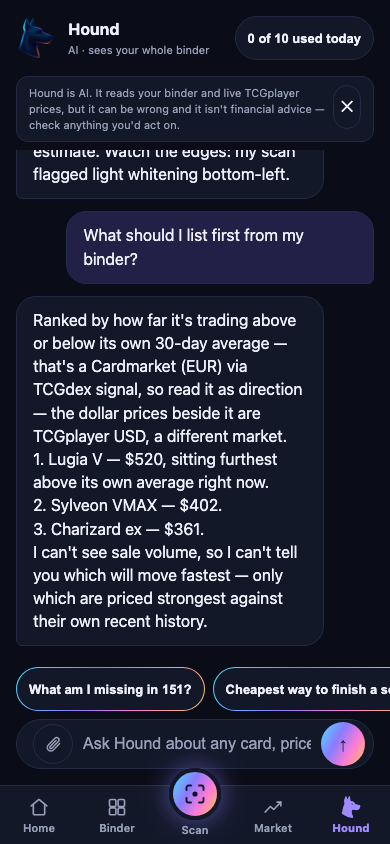
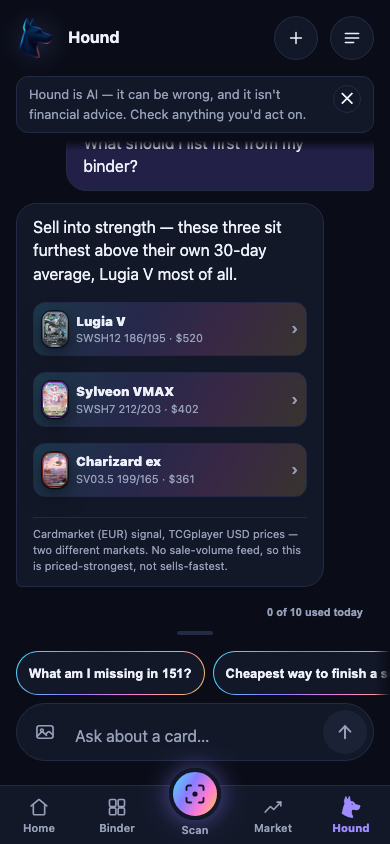
Holohound: the Hound frame showed a screen that no longer exists
Flagged by the session working the app: the chat surface was rebuilt tonight.
Checked it — the five frames on this page were captured at 12:40 and TWENTY-TWO
commits touched index.html after that, including "Conversations, not one
endless scroll" (13:31), "Conversations becomes a screen" (16:22) and a
composer rebuild (16:41). Re-shot from main at a81b7e2 with the app's own
nav_walk, into a scratchpad so the shared tree was never written to.

Only hound.png actually moved (8.7KB); report.png and set.png came back
byte-identical and home/scan differed by 1-2 bytes of encoder noise. Took all
five from the same capture anyway so the set has one provenance instead of a
mix. Bumped the screenshot cache-buster to 20260818b — the old frames are
already on the CDN. Existing alt text and captions still describe the new
screen correctly, so no copy changed.

Recorded path/source_revision/capture_command/journey per frame in
site-audit-contract.json, which is the auditor's own screenshots contract, so
the next person can diff before a launch-facing use instead of discovering it
the way this was discovered. Nothing static could catch this: every file
served 200, and site_audit, the og drift gate and the carousel gate were all
green while the picture was wrong.

Also re-verified against main while there: HOUND_API is still empty unless
?api= is passed, so privacy.html's "Hound is not enabled in this build" and
the FAQ's matching line are both still true.

diff --git a/holohound/index.html b/holohound/index.html
@@ -89,10 +89,10 @@
       <div class="device-stage">
         <div class="device">
           <div class="hero-carousel">
-            <img data-allow-duplicate="true" src="screenshots/home.png?v=20260818a" width="390" height="844" fetchpriority="high" alt="Holohound home screen — binder value with today's movers, Scan and Ask Hound quick actions">
-            <img data-allow-duplicate="true" src="screenshots/report.png?v=20260818a" width="390" height="844" loading="lazy" alt="A card report — last-sold price, the cheapest listing, the middle of the book, and a pre-grade estimate with its hedge stated first">
-            <img data-allow-duplicate="true" src="screenshots/set.png?v=20260818a" width="390" height="844" loading="lazy" alt="Master-set completion — a completion ring, the cards still needed, and what finishing the set would cost">
-            <img data-allow-duplicate="true" src="screenshots/hound.png?v=20260818a" width="390" height="844" loading="lazy" alt="A chat with Hound, the AI companion, answering with the user's own cards as context">
+            <img data-allow-duplicate="true" src="screenshots/home.png?v=20260818b" width="390" height="844" fetchpriority="high" alt="Holohound home screen — binder value with today's movers, Scan and Ask Hound quick actions">
+            <img data-allow-duplicate="true" src="screenshots/report.png?v=20260818b" width="390" height="844" loading="lazy" alt="A card report — last-sold price, the cheapest listing, the middle of the book, and a pre-grade estimate with its hedge stated first">
+            <img data-allow-duplicate="true" src="screenshots/set.png?v=20260818b" width="390" height="844" loading="lazy" alt="Master-set completion — a completion ring, the cards still needed, and what finishing the set would cost">
+            <img data-allow-duplicate="true" src="screenshots/hound.png?v=20260818b" width="390" height="844" loading="lazy" alt="A chat with Hound, the AI companion, answering with the user's own cards as context">
           </div>
         </div>
       </div>
@@ -165,23 +165,23 @@
     <p class="lede">The prototype below is what's actually on the phone today — not mockups.</p>
     <div class="screens-rail">
       <div class="screen-card">
-        <div class="device"><img data-allow-duplicate="true" src="screenshots/home.png?v=20260818a" width="390" height="844" loading="lazy" alt="Home — binder value, today's movers, and recent scans"></div>
+        <div class="device"><img data-allow-duplicate="true" src="screenshots/home.png?v=20260818b" width="390" height="844" loading="lazy" alt="Home — binder value, today's movers, and recent scans"></div>
         <p>Binder value at a glance, with today's movers.</p>
       </div>
       <div class="screen-card">
-        <div class="device"><img src="screenshots/scan.png?v=20260818a" width="390" height="844" loading="lazy" alt="Scan — a full-screen viewfinder that identifies a card on-device"></div>
+        <div class="device"><img src="screenshots/scan.png?v=20260818b" width="390" height="844" loading="lazy" alt="Scan — a full-screen viewfinder that identifies a card on-device"></div>
         <p>Point the camera. Recognition runs on your phone.</p>
       </div>
       <div class="screen-card">
-        <div class="device"><img data-allow-duplicate="true" src="screenshots/report.png?v=20260818a" width="390" height="844" loading="lazy" alt="Report — sold comps, cheapest listing, middle of the book, and a pre-grade estimate"></div>
+        <div class="device"><img data-allow-duplicate="true" src="screenshots/report.png?v=20260818b" width="390" height="844" loading="lazy" alt="Report — sold comps, cheapest listing, middle of the book, and a pre-grade estimate"></div>
         <p>Every price sourced. Every estimate hedged.</p>
       </div>
       <div class="screen-card">
-        <div class="device"><img data-allow-duplicate="true" src="screenshots/set.png?v=20260818a" width="390" height="844" loading="lazy" alt="Set — a master-set completion ring with the exact cards still needed"></div>
+        <div class="device"><img data-allow-duplicate="true" src="screenshots/set.png?v=20260818b" width="390" height="844" loading="lazy" alt="Set — a master-set completion ring with the exact cards still needed"></div>
         <p>What's missing, and what it costs to finish.</p>
       </div>
       <div class="screen-card">
-        <div class="device"><img data-allow-duplicate="true" src="screenshots/hound.png?v=20260818a" width="390" height="844" loading="lazy" alt="Hound — a chat companion that answers using the user's own binder"></div>
+        <div class="device"><img data-allow-duplicate="true" src="screenshots/hound.png?v=20260818b" width="390" height="844" loading="lazy" alt="Hound — a chat companion that answers using the user's own binder"></div>
         <p>Hound knows your binder. Ask it anything.</p>
       </div>
     </div>
